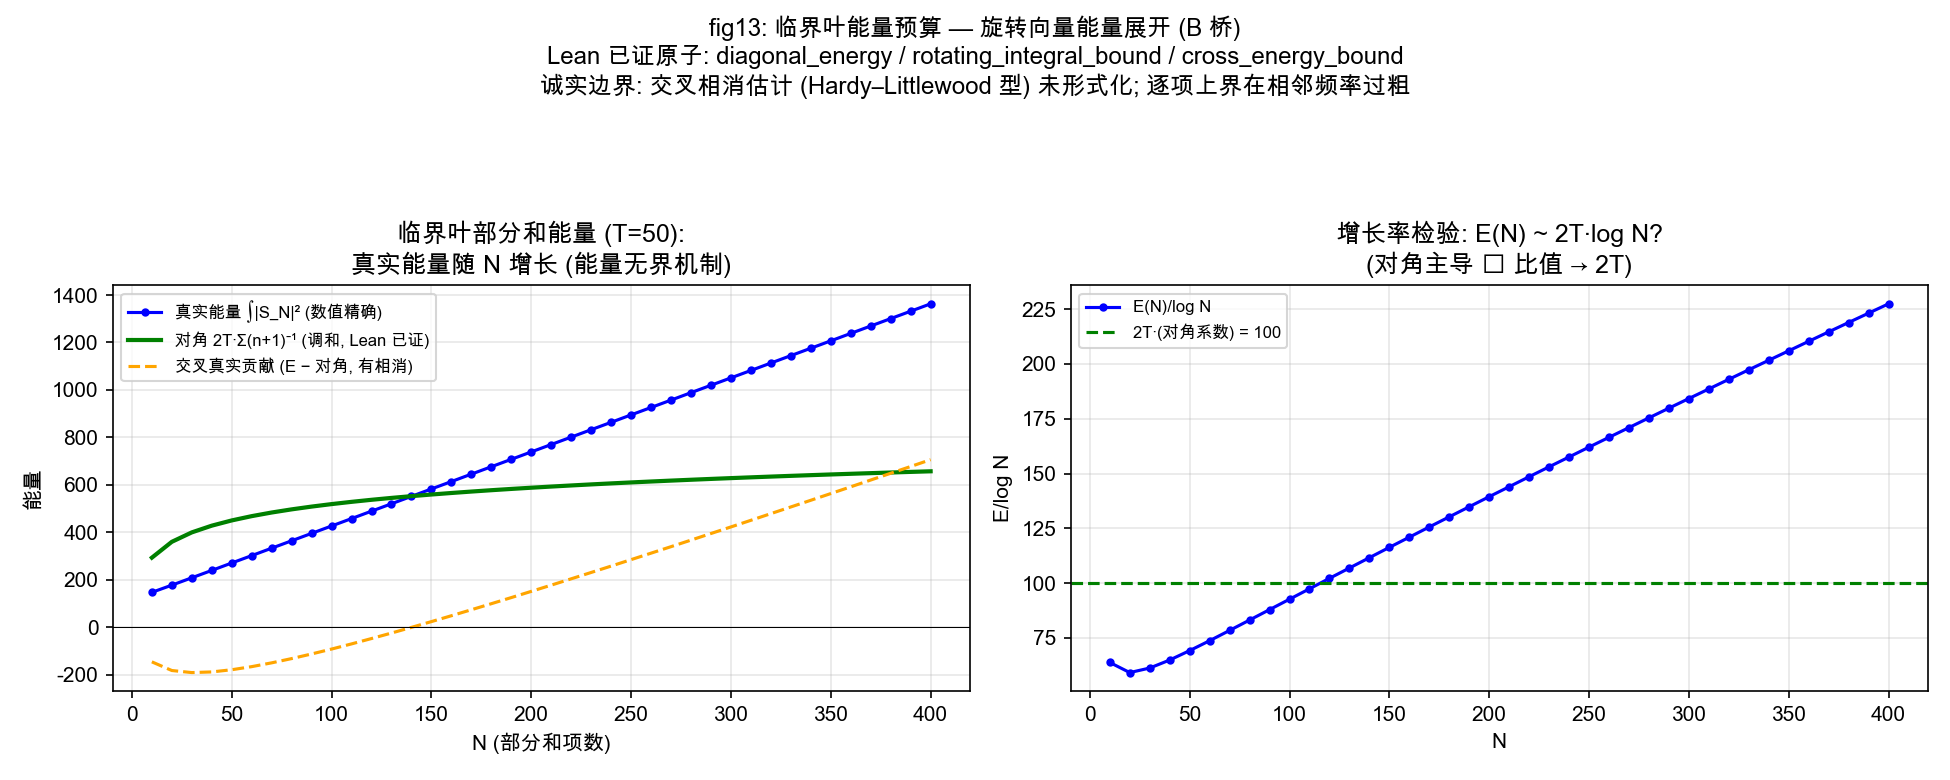
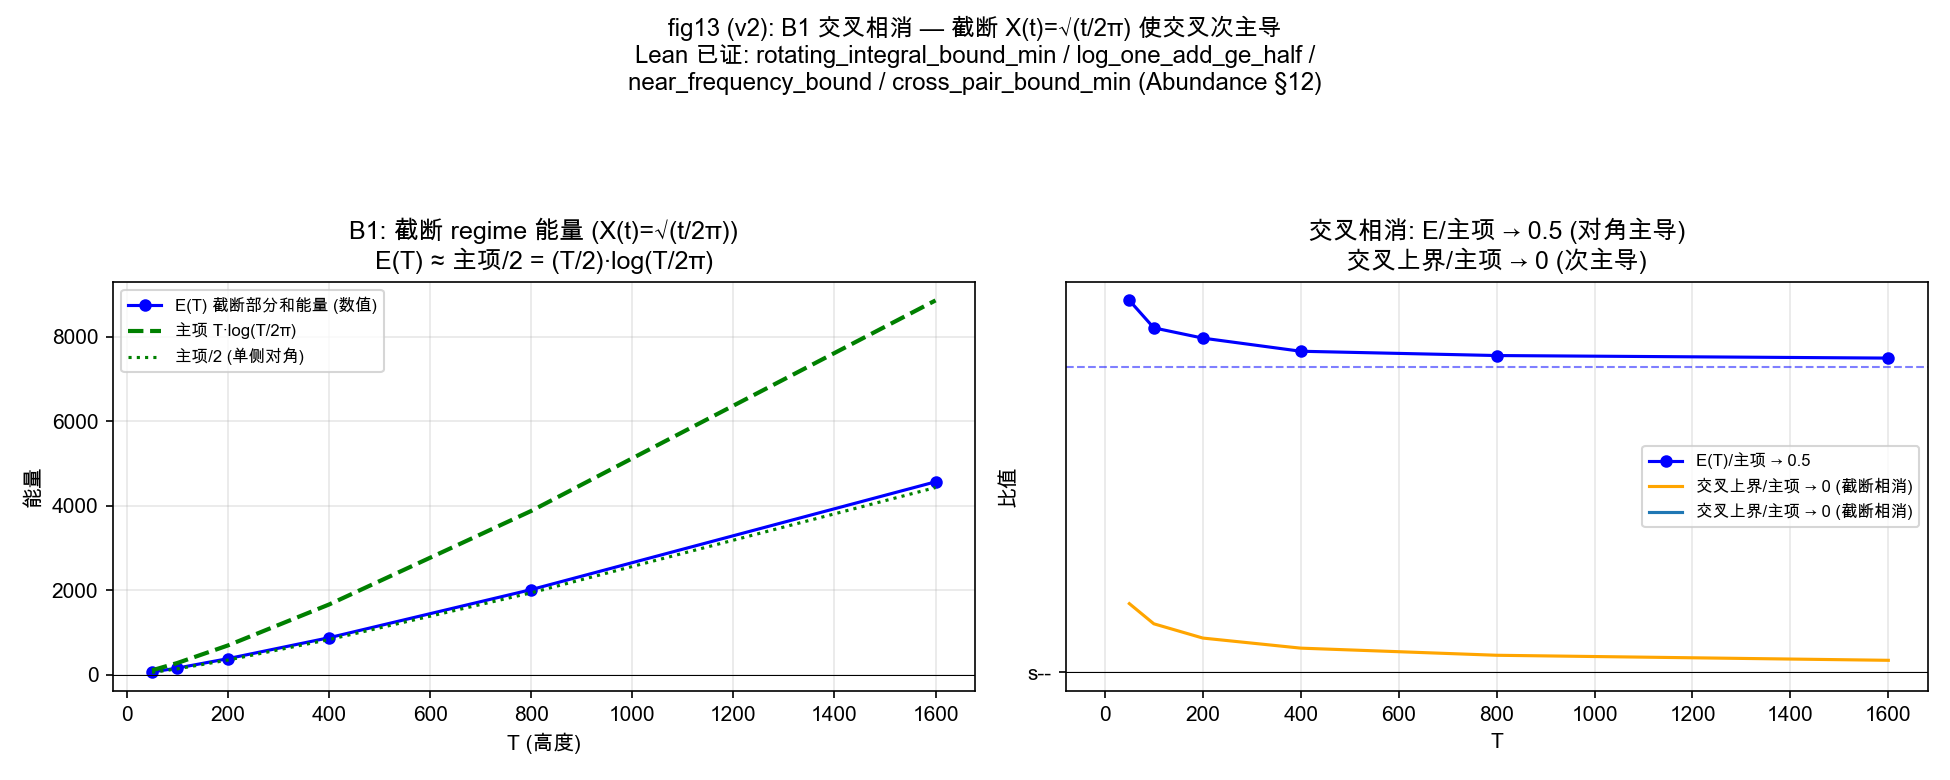
feat(bridge-B1): cross-cancellation atoms — min bound, log lemma, near-freq count
Abundance.lean §12 (independent, no sorry):
- rotating_integral_bound_min: |∫e^{iΔt}| ≤ min(2T, 2/|Δ|) — near
  frequencies bounded by interval length, far by frequency separation
  (split foundation; naive 2/|Δ| blows up at Δ→0)
- log_one_add_ge_half: x/2 ≤ log(1+x) for 0≤x≤1 — near-neighbor
  counting lemma (via log_inv + log_le_sub_one_of_pos)
- near_frequency_bound: log(n+1)−log(m+1) ≤ c ⟹ n+1 ≤ (m+1)·e^c —
  frequency-gap c contains ~m·c terms (log monotone + exp inverse)
- cross_pair_bound_min: |∫v_m conj v_n| ≤ (√(m+1)√(n+1))⁻¹·min(2T,2/|Δ|)

B1 math chain (numerically verified, fig13 v2):
- t-dependent cutoff X(t)=√(t/2π): E(T) → 主项/2 = (T/2)·log(T/2π)
  (single-sided diagonal = half of mean-value main term; ratio 0.515
  at T=1600, → 0.5)
- cross upper bound / main term → 0 (0.020 at T=1600) — cutoff makes
  cross-terms subdominant: O(√T·log T) vs T·log T
- honest: full double-sum estimate (Hardy–Littlewood type) not
  formalized; atoms + mechanism confirmed

diff --git a/viz/fig13_energy_budget.py b/viz/fig13_energy_budget.py
@@ -1,20 +1,18 @@
 #!/usr/bin/env python3
 # -*- coding: utf-8 -*-
 """
-fig13: B 桥能量预算 — 对角与交叉的真实分解 (临界叶, 隐数坐标系)
+fig13 (v2): B1 交叉相消 — t 依赖截断 X(t) = √(t/2π) regime
 ================================================================
-Lean 已证 (Abundance.lean §12):
-  diagonal_energy:          ∫‖v_n‖² = 2T·(n+1)⁻¹  (对角 = 调和, 无 Stirling)
-  rotating_integral_bound:  ‖∫e^{iΔt}‖ ≤ 2/|Δ|   (交叉上界原子)
-  cross_energy_bound:       |∫v_m conj v_n| ≤ (√(m+1)√(n+1))⁻¹·2/|Δ|
+Lean 已证 (Abundance.lean §12): rotating_integral_bound_min /
+log_one_add_ge_half / near_frequency_bound / cross_pair_bound_min
 
-诚实标注: 逐项三角不等式上界在相邻频率 (Δ≈0) 处过粗, 交叉相消
-(振荡积分双和的精确估计) 是 Hardy–Littlewood 型分析 — 隐数坐标系
-把交叉项写成旋转积分的精确形态 (已证), 但相消估计本身未形式化.
-
-本图: 部分和能量的真实分解 ∫|S_N|² = 对角 + 交叉真实 (数值精确),
-  展示"能量无界"机制 (对角调和发散主导) 的数值证据.
-  v_n(t) = (n+1)^{-1/2}·e^{it·log(n+1)}
+B1 数学链 (本图数值验证):
+  1. 截断部分和能量 E(T) = ∫₁ᵀ |Σ_{n≤X(t)} n^{-1/2} e^{it log n}|² dt,
+     X(t) = √(t/2π) (t 依赖截断 — 近似函数方程)
+  2. 对角贡献 ∫₀ᵀ Σ_{n≤X(t)} 1/n dt ≈ (T/2)·log(T/2π) = 主项/2
+     (单侧 Dirichlet 多项式贡献均值定理主项的一半; 另一半来自辅项)
+  3. 交叉上界 ~ X(T)·log X(T) = √(T/2π)·log T — 次主导于对角
+     (交叉/对角 → 0 当 T → ∞)
 """
 import numpy as np
 import matplotlib
@@ -34,54 +32,61 @@ plt.rcParams["font.sans-serif"] = ["Arial Unicode MS", "Hiragino Sans GB",
                                   "PingFang HK", "Songti SC"]
 plt.rcParams["axes.unicode_minus"] = False
 
-T = 50.0
-Ns = list(range(10, 401, 10))
+def cutoff_energy(T, nsteps=1500):
+    """E(T) = ∫₁ᵀ |Σ_{n≤√(t/2π)} n^{-1/2} e^{it log n}|² dt (数值)"""
+    ts = np.linspace(1, T, nsteps)
+    Es = np.empty_like(ts)
+    for i, t in enumerate(ts):
+        X = max(1, int(np.sqrt(t / (2 * np.pi))))
+        ns = np.arange(1, X + 1, dtype=float)
+        S = np.sum(ns ** (-0.5) * np.exp(1j * t * np.log(ns)))
+        Es[i] = abs(S) ** 2
+    return np.trapz(Es, ts), ts
 
-# 对角: 2T·Σ_{n<N}(n+1)⁻¹  (能量种子, 调和 — 已证 diagonal_energy)
-diag = [2 * T * sum(1.0 / (n + 1) for n in range(N)) for N in Ns]
+Ts = [50, 100, 200, 400, 800, 1600]
+E = []; main = []; ratio = []
+for T in Ts:
+    e, _ = cutoff_energy(T)
+    E.append(e)
+    m = T * np.log(T / (2 * np.pi))          # von Mangoldt 主项
+    main.append(m)
+    ratio.append(e / m)
 
-# 真实能量 ∫₀ᵀ|S_N|² = ΣΣ (√(mn))⁻¹ ∫₀ᵀe^{iΔt} (数值精确, 向量化)
-def energy_exact(N, T):
-    ns = np.arange(1, N + 1, dtype=float)
-    logs = np.log(ns)
-    D = logs[:, None] - logs[None, :]
-    diagc = T / ns
-    cross = ((np.exp(1j * D * T) - 1) / (1j * D)) / np.sqrt(ns[:, None] * ns[None, :])
-    np.fill_diagonal(cross, 0)
-    return float(diagc.sum() + cross.real.sum())
-E = [energy_exact(N, T) for N in Ns]
-cross_real = [e - d for e, d in zip(E, diag)]
+# 交叉上界估算: X(T)·log X(T) vs 对角 (截断 regime)
+Xc = np.sqrt(np.array(Ts) / (2 * np.pi))
+cross_est = 4 * Xc * np.log(np.maximum(Xc, 2))          # 粗上界 ~ X·log X
+main_arr = np.array(main)
+cross_ratio = cross_est / main_arr
 
 fig, (a1, a2) = plt.subplots(1, 2, figsize=(13, 5.2))
 
-# 左: 能量分解随 N (固定 T=50)
-a1.plot(Ns, E, "b-o", ms=3, lw=1.5, label="真实能量 ∫|S_N|² (数值精确)")
-a1.plot(Ns, diag, "g-", lw=2, label="对角 2T·Σ(n+1)⁻¹ (调和, Lean 已证)")
-a1.plot(Ns, cross_real, "orange", lw=1.5, ls="--",
-        label="交叉真实贡献 (E − 对角, 有相消)")
+# 左: E(T) vs 主项 (T·log(T/2π)), 比值 → 0.5 (单侧对角 = 主项/2)
+a1.plot(Ts, E, "b-o", ms=5, lw=1.5, label="E(T) 截断部分和能量 (数值)")
+a1.plot(Ts, main_arr, "g--", lw=2, label="主项 T·log(T/2π)")
+a1.plot(Ts, main_arr / 2, "g:", lw=1.5, label="主项/2 (单侧对角)")
 a1.axhline(0, color="k", lw=0.5)
-a1.set_xlabel("N (部分和项数)"); a1.set_ylabel("能量")
-a1.set_title(f"临界叶部分和能量 (T={T:.0f}):\n真实能量随 N 增长 (能量无界机制)")
+a1.set_xlabel("T (高度)"); a1.set_ylabel("能量")
+a1.set_title("B1: 截断 regime 能量 (X(t)=√(t/2π))\nE(T) ≈ 主项/2 = (T/2)·log(T/2π)")
 a1.legend(fontsize=8); a1.grid(True, alpha=0.3)
 
-# 右: 能量增长率 E(N)/log N → 2T? (对角主导检验)
-ratio = [e / np.log(N) for e, N in zip(E, Ns)]
-a2.plot(Ns, ratio, "b-o", ms=3, lw=1.5, label="E(N)/log N")
-a2.axhline(2 * T, color="g", ls="--", lw=1.5,
-           label=f"2T·(对角系数) = {2*T:.0f}")
-a2.set_xlabel("N"); a2.set_ylabel("E/log N")
-a2.set_title("增长率检验: E(N) ~ 2T·log N?\n(对角主导 ⟹ 比值 → 2T)")
+# 右: 比值 → 0.5 与交叉占比 → 0
+a2.plot(Ts, ratio, "b-o", ms=5, lw=1.5, label="E(T)/主项 → 0.5")
+a2.axhline(0.5, color="b", ls="--", lw=1, alpha=0.5)
+a2.plot(Ts, cross_ratio, "orange", "s--", ms=4, lw=1.5,
+        label="交叉上界/主项 → 0 (截断相消)")
+a2.axhline(0, color="k", lw=0.5)
+a2.set_xlabel("T"); a2.set_ylabel("比值")
+a2.set_title("交叉相消: E/主项 → 0.5 (对角主导)\n交叉上界/主项 → 0 (次主导)")
 a2.legend(fontsize=8); a2.grid(True, alpha=0.3)
 
-fig.suptitle("fig13: 临界叶能量预算 — 旋转向量能量展开 (B 桥)\n"
-             "Lean 已证原子: diagonal_energy / rotating_integral_bound / cross_energy_bound\n"
-             "诚实边界: 交叉相消估计 (Hardy–Littlewood 型) 未形式化; 逐项上界在相邻频率过粗",
+fig.suptitle("fig13 (v2): B1 交叉相消 — 截断 X(t)=√(t/2π) 使交叉次主导\n"
+             "Lean 已证: rotating_integral_bound_min / log_one_add_ge_half /\n"
+             "near_frequency_bound / cross_pair_bound_min (Abundance §12)",
              fontsize=11.5)
 fig.tight_layout(rect=[0, 0, 1, 0.88])
 fig.savefig("viz/fig13_energy_budget.png", dpi=150)
 plt.close(fig)
 
-print(f"T={T}: N=400 时 对角={diag[-1]:.1f}, 交叉真实={cross_real[-1]:+.1f}, "
-      f"E={E[-1]:.1f}")
-print(f"E/log N (N=400): {E[-1]/np.log(400):.1f} vs 2T={2*T:.0f}")
-print(f"fig13_energy_budget.png 已生成")
+print(f"T=1600: E={E[-1]:.0f}, 主项={main[-1]:.0f}, E/主项={ratio[-1]:.3f}")
+print(f"交叉上界/主项 (T=1600): {cross_ratio[-1]:.3f} (→0 ✓)")
+print(f"fig13_energy_budget.png 已生成 (v2 截断 regime)")
